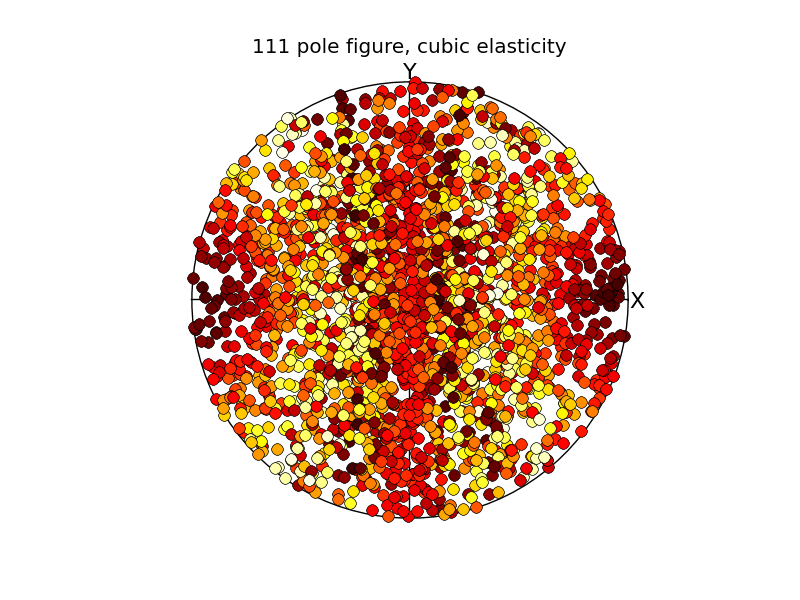
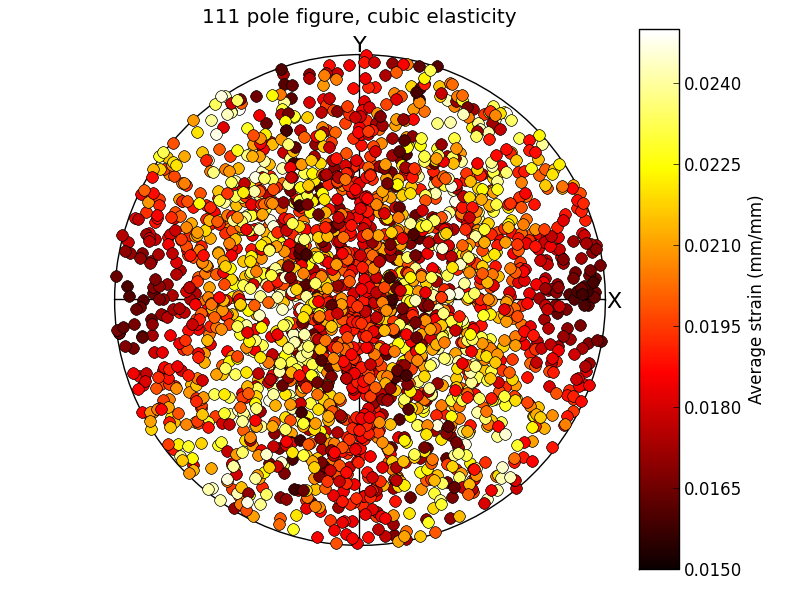
add the colorbar

diff --git a/examples/plotting/field_pole_figure.py b/examples/plotting/field_pole_figure.py
@@ -1,5 +1,6 @@
 from pymicro.crystal.microstructure import *
 from pymicro.crystal.texture import *
+from matplotlib import pyplot as plt, colors, colorbar, cm
 
 if __name__ == '__main__':
     '''This example demonstrate how a field can be used to color each
@@ -20,13 +21,19 @@ if __name__ == '__main__':
     pf.set_map_field('strain', strain_field, field_min_level=0.015, field_max_level=0.025)
     fig = plt.figure()
     # direct PF
-    ax1 = fig.add_subplot(111, aspect='equal')
+    ax1 = fig.add_axes([0.05, 0.05, 0.8, 0.9], aspect='equal')
     pf.plot_pf(ax=ax1)
     plt.title('111 pole figure, cubic elasticity')
-    plt.savefig('%s_pole_figure.png' % micro.name, format='png')
+
+    # to add the color bar
+    ax2 = fig.add_axes([0.8, 0.05, 0.05, 0.9])
+    norm = colors.Normalize(vmin=0.015, vmax=0.025)
+    cb = colorbar.ColorbarBase(ax2, cmap=cm.hot, norm=norm, orientation='vertical')
+    cb.set_label('Average strain (mm/mm)')
 
     image_name = os.path.splitext(__file__)[0] + '.png'
-    print 'writting %s' % image_name
+    print('writting %s' % image_name)
+    plt.savefig('%s' % image_name, format='png')
 
     from matplotlib import image
 
